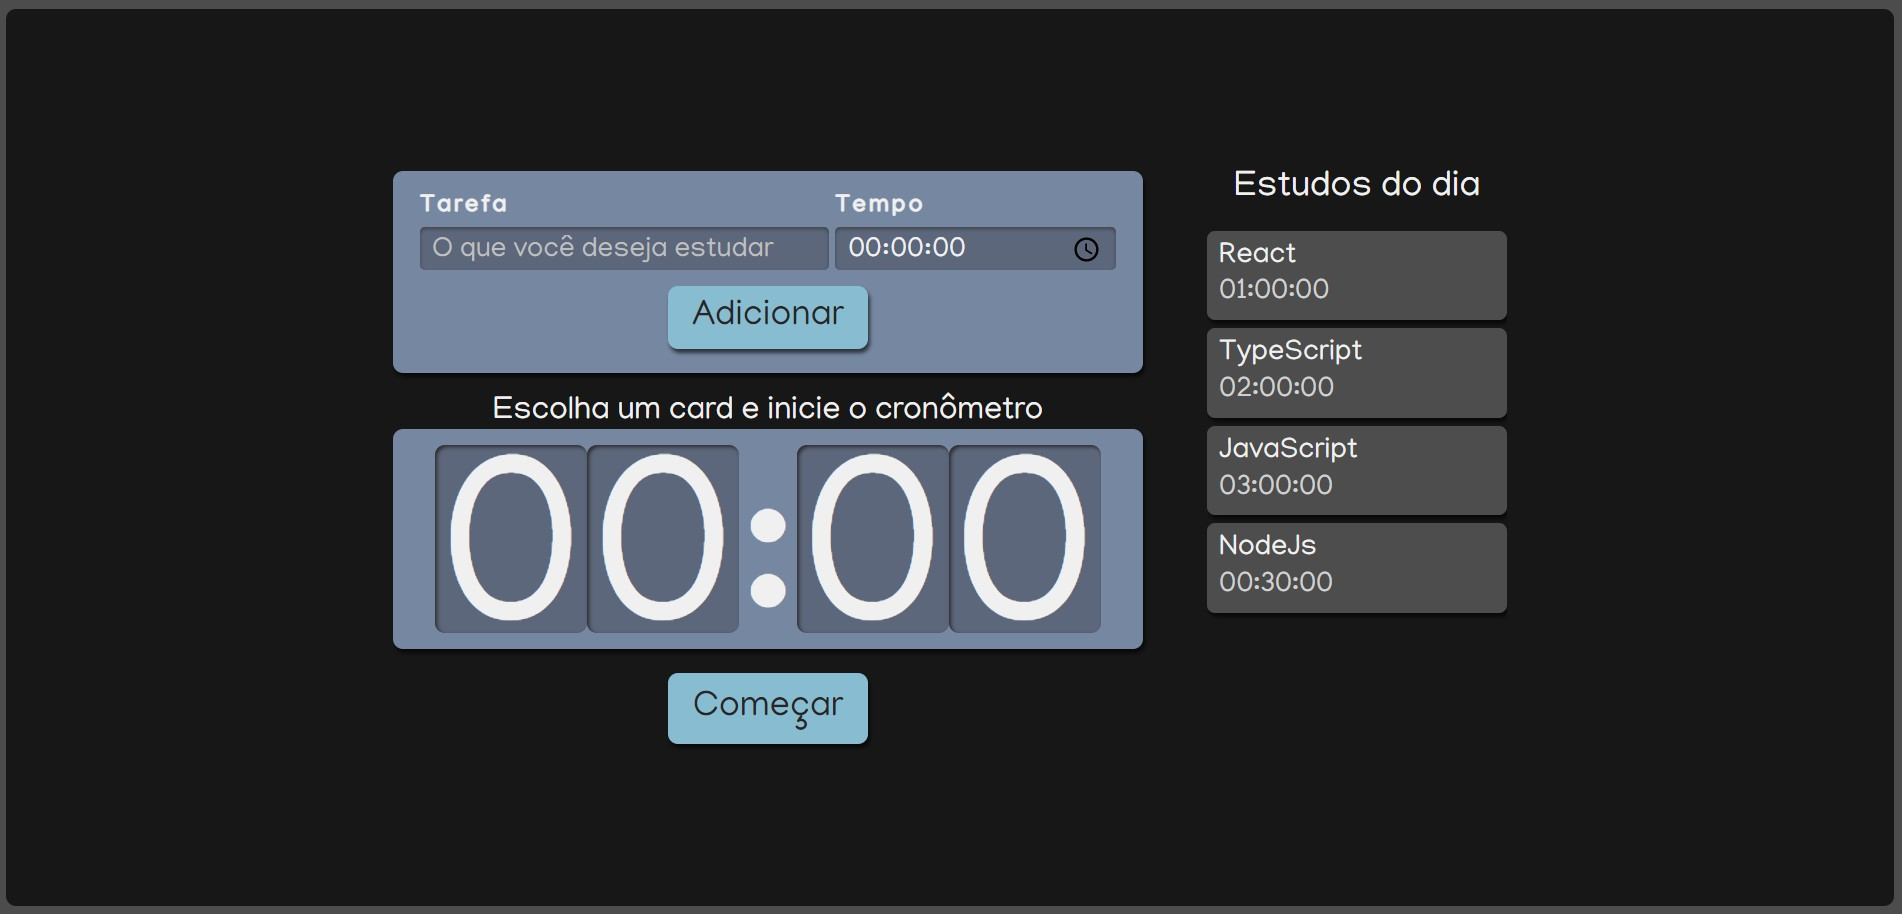
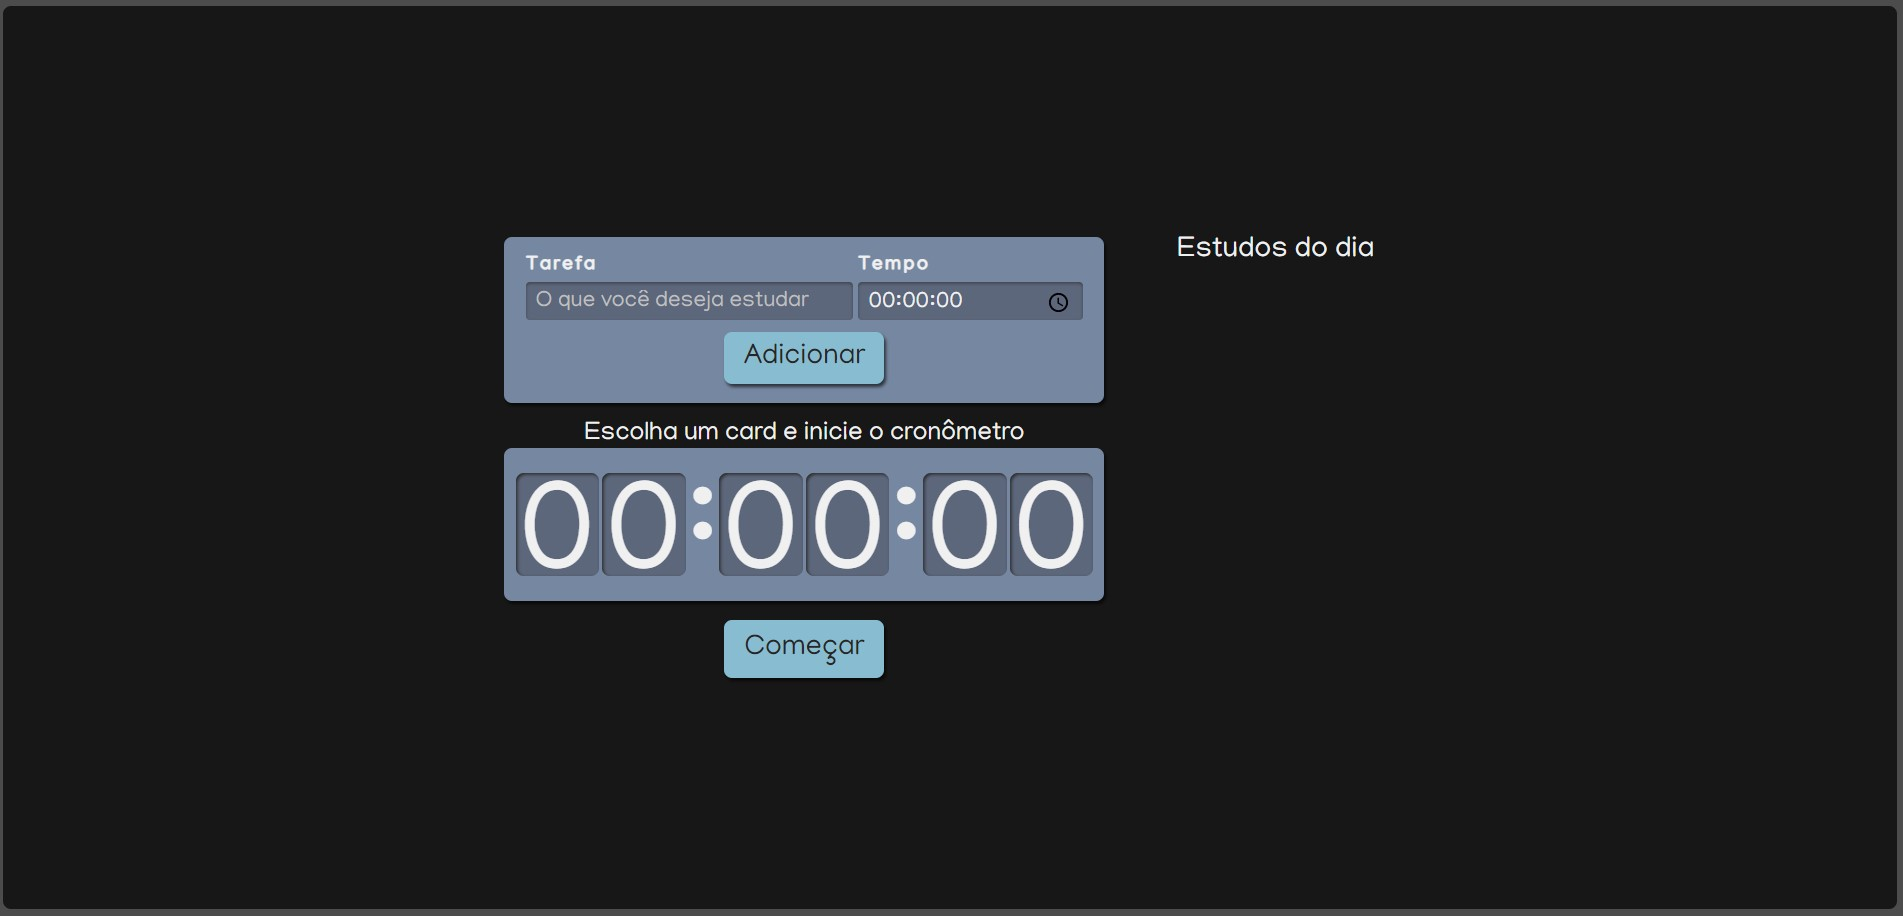
ajust clock mobile after add hour

Changed region(s): [[0.1861, 0.1838, 0.8065, 0.8271], [0.0, 0.0, 1.0, 1.0], [0.6514, 0.1838, 0.7755, 0.2144]]

diff --git a/src/components/Cronometro/Cronometro.module.css b/src/components/Cronometro/Cronometro.module.css
@@ -1,1 +1,1 @@
-.cronometro{display:flex;flex-direction:column;align-items:center;grid-area:cronometro}.cronometro .relogioWrapper{align-items:center;background-color:#7687a1;border-radius:10px;box-shadow:2px 4px 4px rgba(0,0,0,.6235294118);box-sizing:border-box;display:flex;font-size:5rem;justify-content:center;margin-bottom:24px;padding:16px 12px;width:100%}.cronometro .titulo{font-size:2rem}.cronometro button{background-color:#88bcd1;border-radius:10px;box-shadow:2px 4px 4px rgba(0,0,0,.6235294118);color:#272626;cursor:pointer;font-size:1.25rem;padding:16px;width:150px}.cronometro button:active{background-color:#7ca6b7;box-shadow:2px 2px 4px rgba(0,0,0,.6235294118) inset;cursor:auto}@media screen and (min-width: 1280px){.cronometro .relogioWrapper{font-size:10rem}.cronometro p{font-size:2rem}.cronometro button{grid-column-start:span 2;justify-self:center;width:200px;font-size:2.25rem}}
+.cronometro{display:flex;flex-direction:column;align-items:center;grid-area:cronometro}.cronometro .relogioWrapper{align-items:center;background-color:#7687a1;border-radius:10px;box-shadow:2px 4px 4px rgba(0,0,0,.6235294118);box-sizing:border-box;display:flex;font-size:3rem;justify-content:center;margin-bottom:24px;padding:16px 12px;width:100%}.cronometro .titulo{font-size:2rem}.cronometro button{background-color:#88bcd1;border-radius:10px;box-shadow:2px 4px 4px rgba(0,0,0,.6235294118);color:#272626;cursor:pointer;font-size:1.25rem;padding:16px;width:150px}.cronometro button:active{background-color:#7ca6b7;box-shadow:2px 2px 4px rgba(0,0,0,.6235294118) inset;cursor:auto}@media screen and (min-width: 1280px){.cronometro .relogioWrapper{font-size:10rem}.cronometro p{font-size:2rem}.cronometro button{grid-column-start:span 2;justify-self:center;width:200px;font-size:2.25rem}}

diff --git a/src/components/Cronometro/Relogio/Relogio.module.css b/src/components/Cronometro/Relogio/Relogio.module.css
@@ -1,1 +1,1 @@
-.relogioNumero{background-color:#5d677c;box-shadow:2px 2px 4px #2b2b2b inset;height:3.6rem;width:3rem;padding:8px 4px;border-radius:10px;margin:2px}@media screen and (min-width: 1280px){.relogioNumero{height:7rem;width:9rem}}.relogioDivisao{height:3.2rem}@media screen and (min-width: 1280px){.relogioDivisao{height:10rem}}
+.relogioNumero{background-color:#5d677c;box-shadow:2px 2px 4px #2b2b2b inset;height:2rem;width:1.8rem;padding:8px 4px;border-radius:10px;margin:2px}@media screen and (min-width: 1280px){.relogioNumero{height:7rem;width:9rem}}.relogioDivisao{height:3.2rem}@media screen and (min-width: 1280px){.relogioDivisao{height:10rem}}

diff --git a/src/components/Cronometro/Cronometro.module.scss b/src/components/Cronometro/Cronometro.module.scss
@@ -11,7 +11,7 @@
       box-shadow: 2px 4px 4px #0000009F;
       box-sizing: border-box;
       display: flex;
-      font-size: 5rem;
+      font-size: 3rem;
       justify-content: center;
       margin-bottom: 24px;
       padding: 16px 12px;

diff --git a/src/components/Cronometro/Relogio/Relogio.module.scss b/src/components/Cronometro/Relogio/Relogio.module.scss
@@ -1,8 +1,8 @@
 .relogioNumero {
   background-color: #5D677C;
   box-shadow: 2px 2px 4px #2B2B2B inset;
-  height: 3.6rem;
-  width: 3rem;
+  height: 2rem;
+  width: 1.8rem;
   padding: 8px 4px;
   border-radius: 10px;
   margin: 2px;
